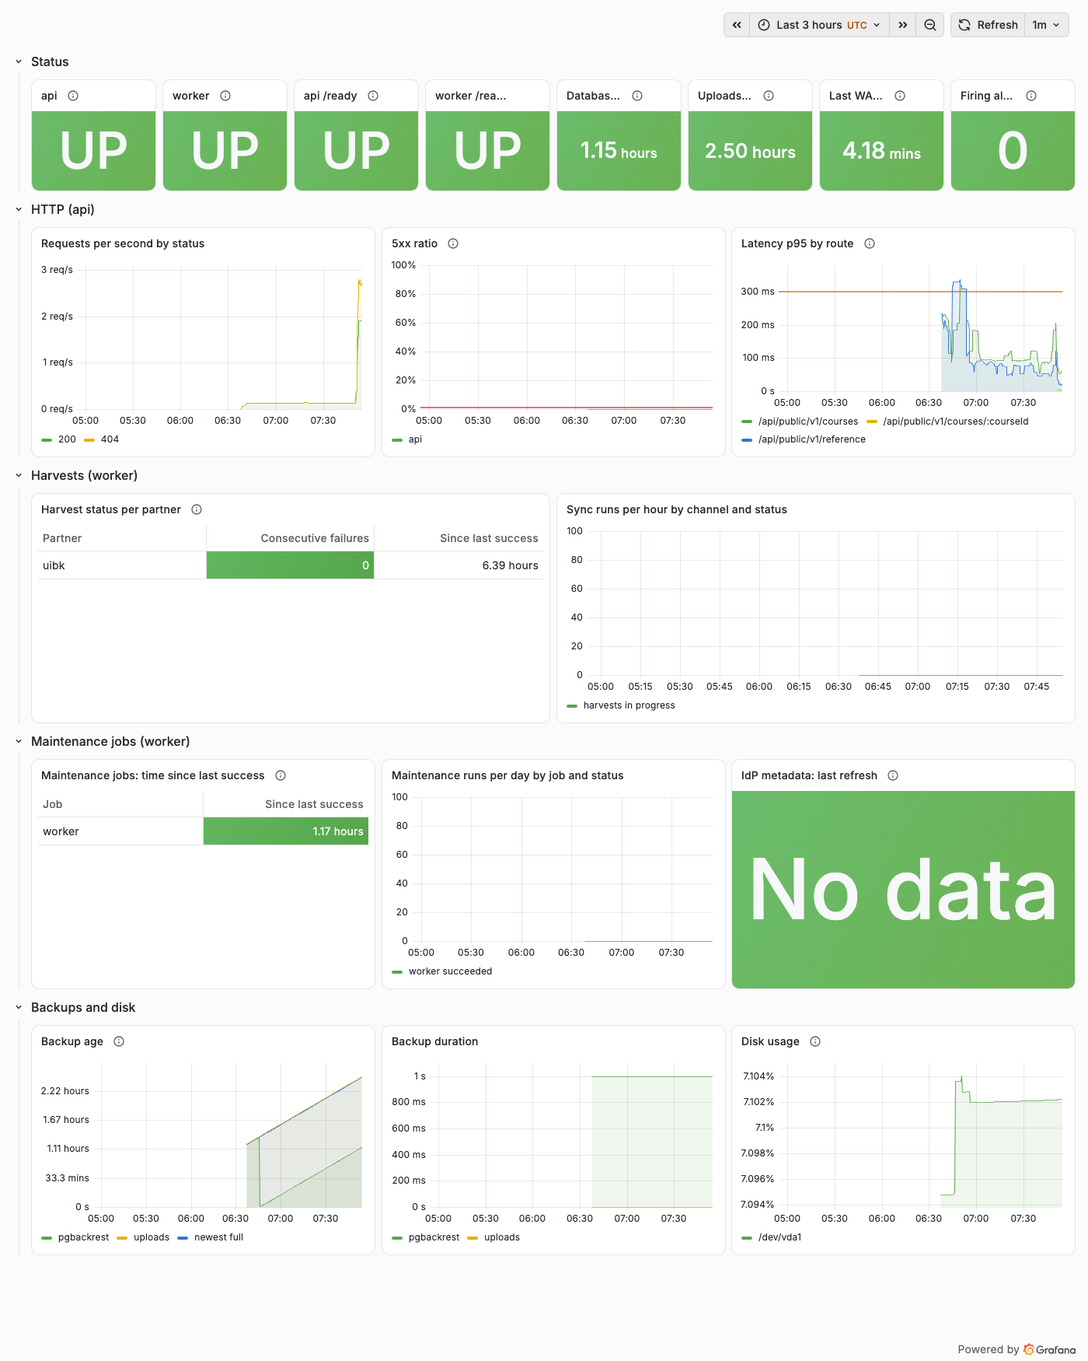
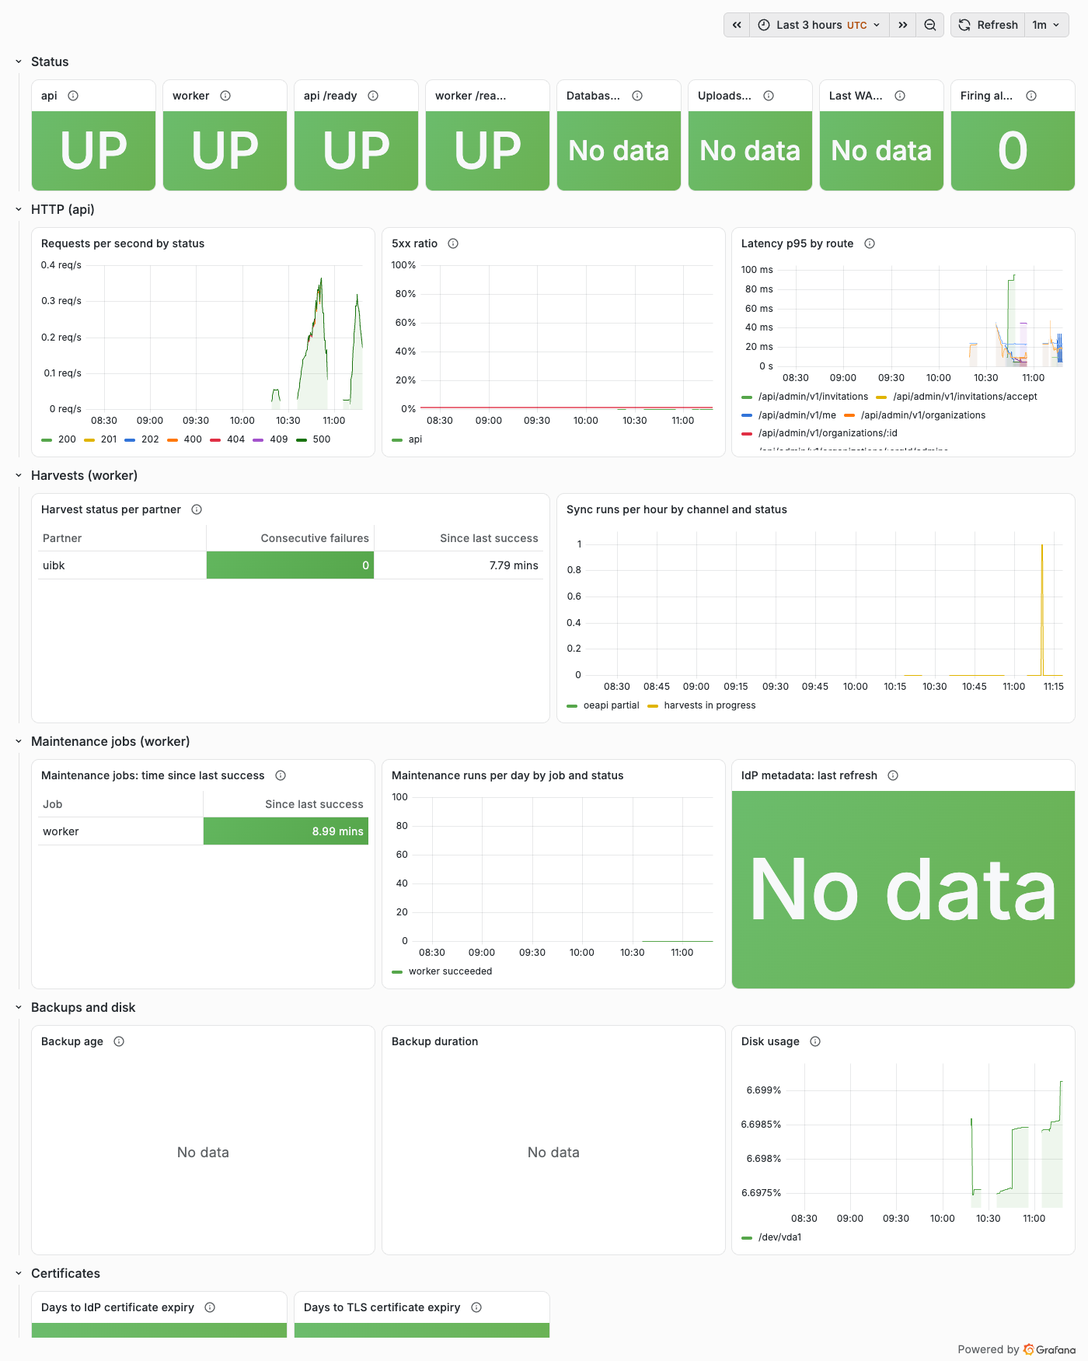
docs: screenshots for the web form guide and the production runbook
The web form guide shows the wizard, the course image and completeness
cards, offerings, the status actions, overrides mode with the status
override box and the course history; the runbook shows the IdP
certificate field in Keycloak, the Grafana overview, Prometheus rule
health and Alertmanager. Four new captures and two retaken from the
development stack on release 0.9.0: the Grafana overview now has the
Certificates row and the rule health page the 26 rules.

The runbook names the Keycloak field as the console labels it,
"Validating X509 certificates", and Guide E drops the note that its
dashboard screenshot predated the Certificates row.

diff --git a/docs/guides/web-form.md b/docs/guides/web-form.md
@@ -20,9 +20,13 @@ The mode follows the organization's authoritative channel (`GET …/reference` r
 
 **Courses** lists every course of the organization, any status, with filters for text (code or any title), status, type and source channel, 25 per page. Each row shows code, title (English, else the first language), status, source, ECTS, offerings, last update, whether overrides exist and **Completeness** against the [publication rule](#publication-rule-completeness): a tick for a complete course, else a badge with the number of obligatory fields still missing ("*3 missing*"; the course's Completeness card lists them). **New course** opens the wizard (write mode only).
 
+![Courses list of the University of Iceland in the administration panel: filters for text, status, type and source channel, and the table of courses with the Completeness column showing a tick or the number of missing fields](../images/manual-courses-list.png)
+
 ## The course wizard
 
 Four steps. A new course is filled in order and each step is checked before **Next**; an existing course opens on any step and can be saved from any of them. Server errors are mapped back to their fields and listed in an error summary at the top.
+
+![Course wizard of a new course, step 1 Basics, with example values typed in and not yet saved: course code, type of course, levels, ECTS credits and the other basic fields](../images/manual-course-wizard-step1.png)
 
 **1. Basics**
 
@@ -44,9 +48,13 @@ Four steps. A new course is filled in order and each step is checked before **Ne
 
 **4. Review and status.** A summary of everything entered and, for a saved course, the **Completeness** card: *Complete*, or the list of fields the Aurora catalogue requires that are still missing (for the last saved version, offerings included), and the **Image** card ([below](#course-image); for a new course it only says to save the course first). Then the status: **Draft** (not shown in the public catalogue) or **Published** (requires the English title). A new course starts as draft. For an existing course that is withdrawn or cancelled the choice stays empty and saving keeps that status; use the status actions to change it. **Create course** sends `POST`, **Save** sends `PUT` (a full replace of the record).
 
+![Course wizard, step 4 of 4, Review and status, of the course URB-301: the Image card asking to save the course first, the summary of what was entered, the status choice with Draft selected and Published, and the Back and Create course buttons](../images/onboarding-course-wizard-review.png)
+
 ## Course image
 
 One image per course (decision 27), shown on the course card and above *About this course* on the public course page; without one the portal shows the partner logo line as before. It is set in the **Image** card of the Review step, which appears once the course exists (save a new course first). Its buttons act **at once**: they do not wait for **Save**, and they keep what you have typed but not yet saved in the other steps.
+
+![Course wizard, step 4: the Completeness card with one obligatory field missing, and the Image card showing the current course image with its alternative text, credit and the Replace image, Save text and Remove image buttons](../images/manual-course-image-card.png)
 
 - **Image file.** JPEG, PNG or WebP, at most **5 MB**; the browser checks the type and the size before anything is sent. Use a landscape image at least 1600 pixels wide: cards crop it to 16:9. OECP stores its own copy, re-encoded to WebP without metadata (no EXIF, location or camera data): a large version inside 1600×1600 and a card version inside 640×640, never enlarged. The original file is not kept.
 - **Alternative text (English).** Required, at most 300 characters: what the image shows, for people who cannot see it. Tick **Decorative image (no alternative text)** only when the image adds no information; the text field is then disabled and emptied.
@@ -67,6 +75,8 @@ The Aurora IT Handbook shows a course only when every obligatory field is filled
 
 A save is never refused because of this rule. In `enforce` mode, withdrawing or deleting the last published offering of a published course, or emptying an obligatory field, turns the course back to draft. The Completeness column and card always show the result for the saved version, whatever the status and the mode.
 
+![Course editor, review step, with the Completeness card listing the obligatory fields of the publication rule that are still missing](../images/admin-course-editor-completeness.png)
+
 ## Offerings
 
 The course page lists its offerings; **Add offering** (write mode) opens the offering form, which has five sections:
@@ -81,6 +91,8 @@ The course page lists its offerings; **Add offering** (write mode) opens the off
 
 Date rules: end ≥ start, deadline ≤ end, application period start ≤ deadline.
 
+![Offering page of a course: the status actions, the offering code, the academic session, the start and end dates, the time zone and the start of the teaching languages](../images/manual-offering-form.png)
+
 ## Status actions
 
 Course and offering pages show the current status and the actions available from it; each asks for confirmation.
@@ -91,6 +103,8 @@ Course and offering pages show the current status and the actions available from
 | Published | Withdraw, Cancel, Back to draft |
 | Withdrawn | Publish, Back to draft |
 | Cancelled | Publish, Back to draft |
+
+![Summary and status box of a published course with the Withdraw, Cancel and Back to draft actions and the reason why it cannot be deleted, above the step buttons](../images/manual-course-status.png)
 
 What each state means for the public portal:
 
@@ -124,6 +138,10 @@ When the organization is harvested from its OEAPI endpoint, course and offering 
 - The status actions store a **`status` override**. It wins over the harvested status and over withdrawal by absence, so "Withdraw" is the immediate way to take a harvested course down.
 - While a status override exists, the course or offering page shows a **Status override** box with the overridden status and the partner's value. **Revert status to the partner's value** asks for confirmation and removes the override (`PATCH …/overrides {"clear": ["status"]}`): the record takes the harvested status at once.
 
+![Course editor in overrides mode on a harvested course: every overridable field shows its source value from the partner's OEAPI endpoint next to an Override checkbox](../images/admin-course-editor-overrides.png)
+
+![Course page of a harvested course of the University of Innsbruck (code 609010) in overrides mode: the Summary and status card with source OEAPI harvest, status Withdrawn and the Publish and Back to draft buttons, and the Status override box stating that Withdrawn is set here as an override while the partner's value is Published, with the button Revert status to the partner's value](../images/guide-status-override.png)
+
 Overridable: course type, levels, ECTS, teaching hours, information page, contact e-mail, instructors (as one list), attributes (as one value), ISCED codes and every text field per language, the five optional texts included (adding a title in a new language adds that language until the title override is cleared); offering dates, time zone, teaching languages, delivery modes, campus, seat figures, application page and instructions.
 
 **What survives a harvest.** Every override. The harvester compares payloads before overrides are applied, keeps writing the latest source value next to each override (that is the value displayed and restored when you revert) and never removes an override. Partners cannot send course types or alliance attributes through OEAPI, and most endpoints do not return named coordinators, so overrides are the way to add course types, attributes and instructors to harvested courses (an `instructors` override is often what makes a harvested course complete). If the organization later switches to `form` or `csv`, the first save of a record in the wizard drops its leftover overrides; CSV uploads do not.
@@ -143,6 +161,8 @@ Overridable: course type, levels, ECTS, teaching hours, information page, contac
 ## History
 
 The course page ends with **History**: the latest 50 changes of the course and its offerings, newest first, with when, by whom (the administrator's account id, or `system:harvester`), type, action and a one-line summary. "Admin change" entries come from the audit log (created, updated with the changed fields, status from → to, overrides set or removed, deleted, withdrawn after N absences, republished when seen again); "Ingestion" entries record each accepted or rejected payload of a channel, only when its content changed. Payload bodies are never shown.
+
+![The History card at the end of the same course page, Latest 4 changes newest first, with the columns When, By, Type, Action and Summary: an Ingestion entry ingest.accepted, an Admin change course.status "Status published → withdrawn", and two Ingestion entries for the accepted OEAPI payloads of the course and its offering](../images/guide-course-history.png)
 
 ## Admin API equivalents
 

diff --git a/docs/images/README.md b/docs/images/README.md
@@ -11,14 +11,15 @@ page and another on the course list, all three the deployment's own files, see
 and the real course data of the Aurora Virtual Campus 2026-27 next to the
 simulated Innsbruck partner. The **administration panel** screenshots date
 from 2026-10-14 (release 0.3.0, simulated data; `admin-maintenance.png` from
-the Maintenance page released in 0.4.0) and the three **operations and API**
-screenshots from 2026-10-15 (release 0.5.0). They illustrate the
+the Maintenance page released in 0.4.0) and the **operations and API** screenshots
+from 2026-10-15 (release 0.5.0, now only `api-openapi-redoc.png`; the others
+were retaken on 2026-10-18, release 0.9.0). They illustrate the
 documentation; the product may change. None contains credentials.
 
-Not retaken since: in 0.7.0 the alert rules grew to 26 (group
-`oecp-certificates`) and "OECP overview" gained a *Certificates* row, so
-`ops-prometheus-rules.png` and `ops-grafana-overview.png` predate them. The
-second dashboard, "OECP logs" (the container logs shipped to Loki), and the
+Not retaken since 0.5.0: `api-openapi-redoc.png`. The 26 alert rules (group
+`oecp-certificates` included) and the *Certificates* row of "OECP overview"
+are now captured in `ops-prometheus-rules.png` and `ops-grafana-overview.png`.
+The second dashboard, "OECP logs" (the container logs shipped to Loki), and the
 admin panel's warning for an organization whose identity provider is not
 enabled have their own screenshots below (`ops-grafana-logs.png`,
 `manual-invitations-warning.png`).
@@ -55,9 +56,11 @@ enabled have their own screenshots below (`ops-grafana-logs.png`,
 
 | File | Shows |
 |---|---|
-| `ops-grafana-overview.png` | Grafana dashboard "OECP overview" of the `observability` profile (kiosk mode, light theme, last 3 hours), rows: Status (api and worker up and ready, database and uploads backup age, last WAL archived, firing alerts), HTTP (api), Harvests (worker), Maintenance jobs (worker), Backups and disk. The "IdP metadata: last refresh" panel shows "No data" because the development stack has no eduGAIN aggregate configured. |
+| `ops-grafana-overview.png` | Retaken on 2026-10-18 (release 0.9.0), 1400 x 1750 pixels. Grafana dashboard "OECP overview" of the `observability` profile (kiosk mode, light theme, last 3 hours), rows: Status (api and worker up, /ready up, database and uploads backup age, last WAL archived, firing alerts), HTTP (api), Harvests (worker) with the Innsbruck partner at 0 consecutive failures, Maintenance jobs (worker), Backups and disk, and the Certificates row (days to IdP and TLS certificate expiry) at the bottom. The backup panels show "No data" because the backup profile is not running on the development stack. |
 | `ops-grafana-logs.png` | Grafana dashboard "OECP logs" of the `observability` profile (kiosk mode, light theme, last 3 hours), taken on 2026-10-18 from the development stack (release 0.9.0): the *Service* and *Line contains (regex)* filters, the Volume row (log lines by service and by level, errors and warnings by service and level), the Logs panel with the api JSON lines and Grafana's own lines, and the Traefik access log panel, which shows "No data" on the development stack. |
-| `ops-prometheus-rules.png` | Prometheus "Rule health" page with the OECP alert rules (19 rules, every one OK and inactive on the development stack); the groups `oecp-availability`, `oecp-backup` and `oecp-harvest` are visible, the others below the fold. |
+| `ops-prometheus-rules.png` | Retaken on 2026-10-18 (release 0.9.0), 1400 x 1000 pixels. Prometheus "Status > Rule health" page with the groups `oecp-availability` (3 rules), `oecp-backup` (6) and the start of `oecp-certificates`, every rule OK; the stack has 26 rules in 7 groups (availability, backup, certificates, harvest, host, http, maintenance), the rest below the fold. |
+| `ops-alertmanager.png` | Alertmanager "Alerts" page (release 0.9.0, 2026-10-18, 1400 x 800 pixels) with the filter and group controls and one group for the receiver `oecp-operators` holding the delivery test `OecpTestAlert` (component=monitoring, severity=warning) with its Silence and Link actions. |
+| `ops-keycloak-idp-certificate.png` | Keycloak admin console, realm `oecp`, Identity providers > `urv` (the development test IdP) > settings, scrolled to the SAML settings (release 0.9.0, 2026-10-18, 1400 x 620 pixels): Validate Signatures on, Metadata descriptor URL, "Validating X509 certificates" with the certificate value, Sign service provider metadata on, Allowed clock skew. |
 | `api-openapi-redoc.png` | The public catalogue API OpenAPI document (release 0.5.0) rendered with Redoc, a static page built with `npx @redocly/cli build-docs docs/api/oecp-public-api.openapi.json` ([docs/api/README.md](../api/README.md#how-to-view)). |
 
 Three more, taken on 2026-10-18 from the development stack (release 0.9.0, profiles `dev` and `observability`, Mailpit as the SMTP relay for Keycloak and Alertmanager) at 1400 pixels wide with Playwright, for the [hosting operator guide](../onboarding/hosting-operator.md) (Guide E, steps 2.7, 2.10 and 2.12). The e-mails show only example addresses; the account update link is shown as link text, its token is not on screen.
@@ -76,6 +79,15 @@ Taken on 2026-10-18 from the development stack (release 0.9.0) at 1200 pixels wi
 |---|---|
 | `readme-catalogue.png` | Course list filtered by the educational hub "Social Entrepreneurship & Innovation": filter sidebar with facet counts, the active filter chip, and course cards (a BIP and a course from different universities) with key facts and alliance tags. |
 | `readme-home.png` | Home page: text brand, search box, "Browse 30 courses with upcoming offerings", quick links by field of study and by university with course counts. |
+
+## Data-provider guides (release 0.9.0, 2026-10-18)
+
+Taken on 2026-10-18 from the development stack (release 0.9.0) at 1400 pixels wide, for the [web form guide](../guides/web-form.md). The data is the simulated University of Innsbruck partner harvested from the OEAPI mock (`tools/oeapi-mock`); a status override was set on one harvested course and reverted for the capture, so nothing was left changed.
+
+| File | Shows |
+|---|---|
+| `guide-status-override.png` | Course page of a harvested course (University of Innsbruck, code 609010) in overrides mode, 1400 x 499 pixels: the "Summary and status" card with code, type, source "OEAPI harvest", last updated, last seen in a harvest and Status "Withdrawn" with the Publish and Back to draft buttons, then the "Status override" box ("The status Withdrawn is set here as an override. The partner's value is Published.") with the button "Revert status to the partner's value" and the note that harvested records cannot be deleted here. |
+| `guide-course-history.png` | The "History" card at the end of the same course page, 1400 x 424 pixels: "Latest 4 changes, newest first", columns When, By (account id), Type, Action and Summary, with an Ingestion `ingest.accepted` entry, an Admin change `course.status` "Status published → withdrawn", and two Ingestion entries for the accepted OEAPI payloads of the course and its offering. |
 
 ## Onboarding guides (release 0.9.0, 2026-10-18)
 

diff --git a/docs/production/runbook.md b/docs/production/runbook.md
@@ -107,9 +107,13 @@ Back up = `docker compose exec backup oecp-backup backup full` (or `diff`), and 
 
 **Certificate expiry.** The refresh drops expired IdP certificates and warns 30 days ahead in the worker log; an IdP without a valid certificate fails the run (alert `OecpIdpMetadataRefreshFailed`, section 7). Independently, the worker reads the signing certificates of every IdP in the realm (at start, after each refresh and hourly; client `oecp-backend` needs `view-identity-providers`) and the alerts `OecpIdpCertificateExpiring` (30 and 7 days), `OecpIdpCertificateExpired` and `OecpIdpCertificateCheckStale` fire on them (section 7). Federation signing key: section 2. TLS: Traefik renews; the blackbox exporter probes the certificate Traefik serves on 443 (`OecpTlsCertificateExpiring` at 21 and 7 days), which in production must be the ACME certificate made Traefik's default ([Compose README, Alerting](../../deploy/compose/README.md#alerting)).
 
+![Keycloak admin console, realm oecp, Identity providers, the urv test identity provider, scrolled to the SAML settings: Validate Signatures on, the metadata descriptor URL, the Validating X509 certificates field with the certificate value, Sign service provider metadata on and the allowed clock skew](../images/ops-keycloak-idp-certificate.png)
+
 ## 7. Monitoring and alerts
 
 Profile `observability` ([Compose README, Alerting](../../deploy/compose/README.md#alerting)): Prometheus scrapes the api and worker `/metrics` (internal network only), their `/ready` (blackbox exporter), node-exporter (disk of the data volumes, backup metrics), Traefik, Keycloak, the monitoring services themselves and the TLS certificate on 443 (blackbox exporter); the worker also exports the expiry of the partner IdP signing certificates; `observability/alert-rules.yml` defines the alerts; Alertmanager sends them by e-mail (`OECP_ALERT_EMAIL_TO`, through `OECP_ALERT_SMTP_*` or the application relay) and/or to a webhook (`OECP_ALERT_WEBHOOK_URL`); Alloy ships every container's log to Loki through a read-only Docker socket proxy; Grafana shows the dashboards *OECP overview* and *OECP logs* (log volume by service and level, logs by service with a search box, Traefik access log) and the active alerts. In an incident, search the logs there (or *Explore*, data source Loki, e.g. `{service="api"} |= "error"`) rather than with `docker compose logs`, which only reaches back as far as the json-file rotation. Receivers: `[TO COMPLETE: alert mailbox or on-call address, webhook target]`. After set-up and after every change send a test alert (`amtool alert add`, Compose README) and check that it arrives.
+
+![Grafana dashboard "OECP overview" in kiosk mode, last 3 hours: the Status row (api and worker up, /ready up, database and uploads backup age, last WAL archived, firing alerts), then the HTTP (api), Harvests (worker), Maintenance jobs (worker) and Backups and disk rows, and the Certificates row with the days to IdP and TLS certificate expiry at the bottom; the backup panels show No data on the development stack](../images/ops-grafana-overview.png)
 
 | Alert | Severity | First actions |
 |---|---|---|
@@ -122,10 +126,16 @@ Profile `observability` ([Compose README, Alerting](../../deploy/compose/README.
 | `OecpBackupTooOld` (> 26 h), `OecpBackupFailed`, `OecpBackupMissing`, `OecpBackupMetricsStale`, `OecpBackupNoRecentFull` | critical / warning | `docker compose --profile backup ps backup`, `docker compose logs backup`; `docker compose exec backup pgbackrest --stanza=oecp check`; run `oecp-backup backup diff` once fixed |
 | `OecpWalArchivingFailing` | critical | `docker compose logs postgres` (archive-push errors), repository space or repo2 reachability; `pg_wal` grows meanwhile (disk alert next) |
 | `OecpDiskSpaceLow` (> 80 % warning, > 90 % critical) | warning / critical | `docker system df -v`; volumes `postgres_data`, `pgbackrest-repo` (backups, WAL), `uploads`, Docker logs; grow the disk before PostgreSQL stops |
-| `OecpIdpCertificateExpiring` (< 30 d warning, < 7 d critical), `OecpIdpCertificateExpired` | warning / critical | The partner IdP's SAML signing certificate in Keycloak (*Identity providers* > alias > *Signing certificate*); *Maintenance* page, last *IdP metadata refresh* run (does the federation metadata publish the successor?); ask the partner for its key rollover; by hand: add the new certificate comma-separated in Keycloak; disable the IdP if the partner has left |
+| `OecpIdpCertificateExpiring` (< 30 d warning, < 7 d critical), `OecpIdpCertificateExpired` | warning / critical | The partner IdP's SAML signing certificate in Keycloak (*Identity providers* > alias > *Validating X509 certificates*); *Maintenance* page, last *IdP metadata refresh* run (does the federation metadata publish the successor?); ask the partner for its key rollover; by hand: add the new certificate comma-separated in Keycloak; disable the IdP if the partner has left |
 | `OecpIdpCertificateCheckStale` | warning | Worker log `IdP signing certificates not checked`: Keycloak reachable from the worker, client `oecp-backend` has `view-identity-providers` |
 | `OecpTlsCertificateExpiring` (< 21 d warning, < 7 d critical), `OecpTlsProbeFailing` | warning / critical | `docker compose logs traefik \| grep -i acme` (port 443 reachable for the TLS-ALPN challenge, DNS, Let's Encrypt rate limits), `traefik_acme` volume; probe failing: Traefik down on 443 or `blackbox-exporter` not on the `edge` network |
 | `OecpMonitoringTargetDown` | warning | The exporter or Traefik/Keycloak metrics endpoint; the alerts depending on it cannot fire |
+
+The Prometheus rule health page shows every alert rule and its state; Alertmanager lists the firing alerts and holds the silences.
+
+![Prometheus Rule health page with the groups oecp-availability (3 rules), oecp-backup (6 rules) and the start of oecp-certificates, every rule OK; the stack has 26 rules in 7 groups, the rest below the fold](../images/ops-prometheus-rules.png)
+
+![Alertmanager Alerts page with the filter and group controls and one group for the receiver oecp-operators holding the delivery test alert OecpTestAlert (component monitoring, severity warning) with its Silence and Link actions](../images/ops-alertmanager.png)
 
 Still manual:
 

diff --git a/docs/onboarding/hosting-operator.md b/docs/onboarding/hosting-operator.md
@@ -245,9 +245,7 @@ Check:
 
 ![The Alertmanager delivery test as it arrives: subject "[OECP local] FIRING:1 OecpTestAlert (warning)", one firing alert with its labels alertname, component and severity, and the View In Alertmanager button; caught by Mailpit on the development stack](../images/ops-alert-email.png)
 
-![Grafana dashboard "OECP overview": Status row with api and worker up and ready, backup ages and firing alerts, then the HTTP, Harvests, Maintenance jobs and Backups rows](../images/ops-grafana-overview.png)
-
-The dashboard screenshot predates the *Certificates* row (it is from release 0.5.0); the row sits under *Status* in 0.7.0 and later.
+![Grafana dashboard "OECP overview": Status row with api and worker up and ready, backup ages and firing alerts, then the HTTP, Harvests, Maintenance jobs and Backups rows, and the Certificates row with the days to IdP and TLS certificate expiry at the bottom](../images/ops-grafana-overview.png)
 
 ### 2.11 Branding
 

diff --git a/CHANGELOG.md b/CHANGELOG.md
@@ -32,6 +32,12 @@ and this project adheres to [Semantic Versioning](https://semver.org/spec/v2.0.0
 - Docs: the repository README shows the public catalogue and the home page
   (two unbranded screenshots, `docs/images/readme-*.png`), and
   `publiccode.yml` lists them as `screenshots`.
+- Docs: the web form guide and the production runbook show the screens they
+  describe (course wizard, status override box, course history; Grafana
+  overview with the Certificates row, Prometheus rule health with the 26
+  rules, Alertmanager, the IdP certificate field in Keycloak); four new and
+  two retaken screenshots; the runbook names the Keycloak field "Validating
+  X509 certificates".
 
 ## [0.9.0] - 2026-10-16
 
